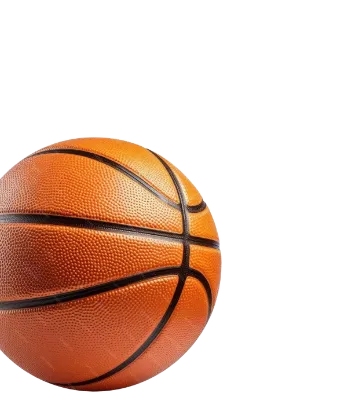
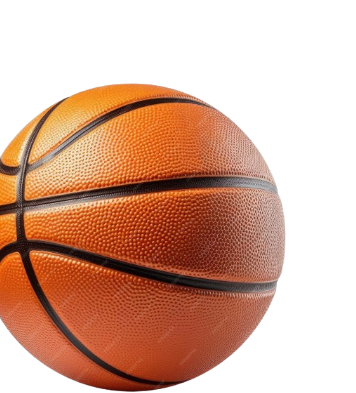
feat(contact): update accent images and adjust animation
- Remove footer-mid-ball
- Update footer-left-ball and footer-right-ball assets
- Adjust GSAP animation vertical movement to -20
- Reset positioning to corner anchors

diff --git a/src/components/Contact.jsx b/src/components/Contact.jsx
@@ -28,10 +28,10 @@ const Contact = () => {
         stagger: 0.2
       })
       .to('#f-right-ball', {
-        y: '-50', duration: 1, ease: 'power1.inOut'
+        y: '-20', duration: 1, ease: 'power1.inOut'
       })
       .to('#f-left-ball', {
-        y: '-50', duration: 1, ease: 'power1.inOut'
+        y: '-20', duration: 1, ease: 'power1.inOut'
       }, '<')
   })
 
@@ -41,7 +41,7 @@ const Contact = () => {
         src="/images/webp/footer-right-ball.webp"
         alt="ball-right"
         id="f-right-ball"
-        className="absolute top-0 right-0 pointer-events-none hidden lg:block"
+        className="absolute top-0 right-0 pointer-events-none lg:w-fit w-1/3"
       />
       <img
         src="/images/webp/footer-left-ball.webp"
@@ -50,11 +50,7 @@ const Contact = () => {
         className="absolute bottom-0 left-0 pointer-events-none lg:w-fit w-1/3"
       />
 
-      <img
-        src="/images/webp/footer-mid-ball.webp" // Assuming this is the accent-img from CSS or similar
-        alt=""
-        className="accent-img absolute bottom-0 right-0 lg:w-96 w-1/3 pointer-events-none"
-      />
+
 
       <div className="content container mx-auto lg:py-14 2xl:py-32 py-16 flex flex-col justify-between gap-10 min-h-dvh">
         <h2 className="text-5xl md:text-7xl font-anton uppercase text-center md:mb-16 mb-10 leading-none lg:text-6xl 2xl:text-8xl md:translate-y-0 translate-y-5">
